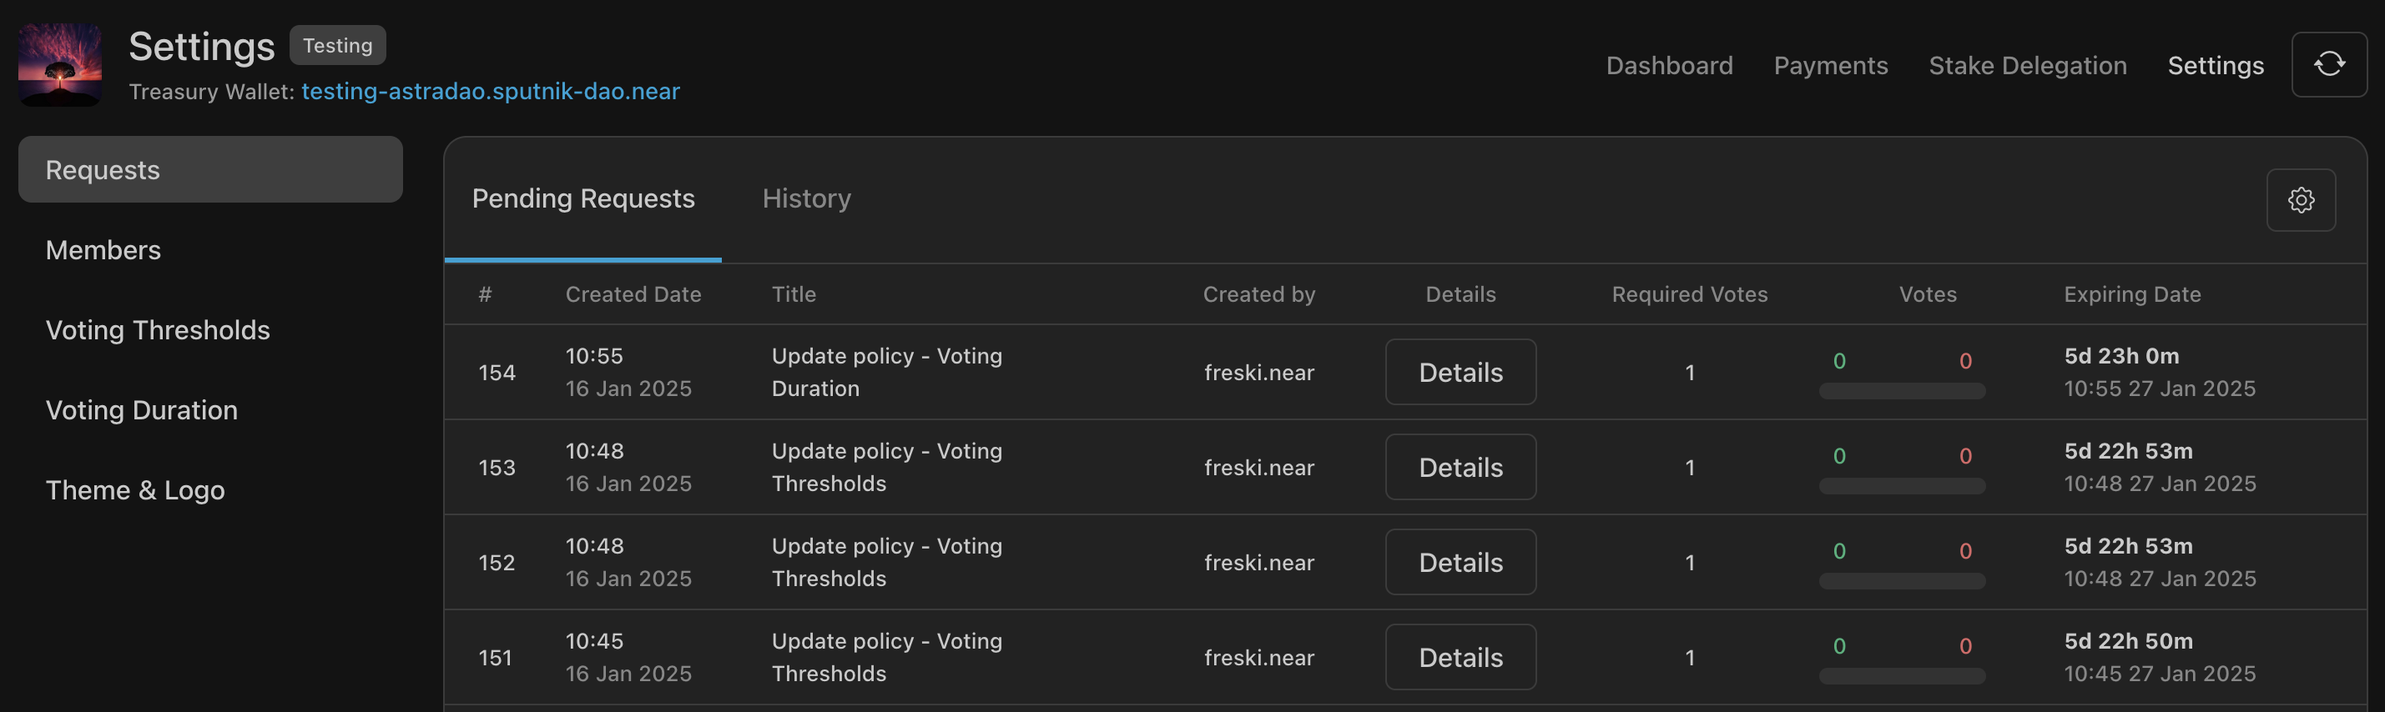
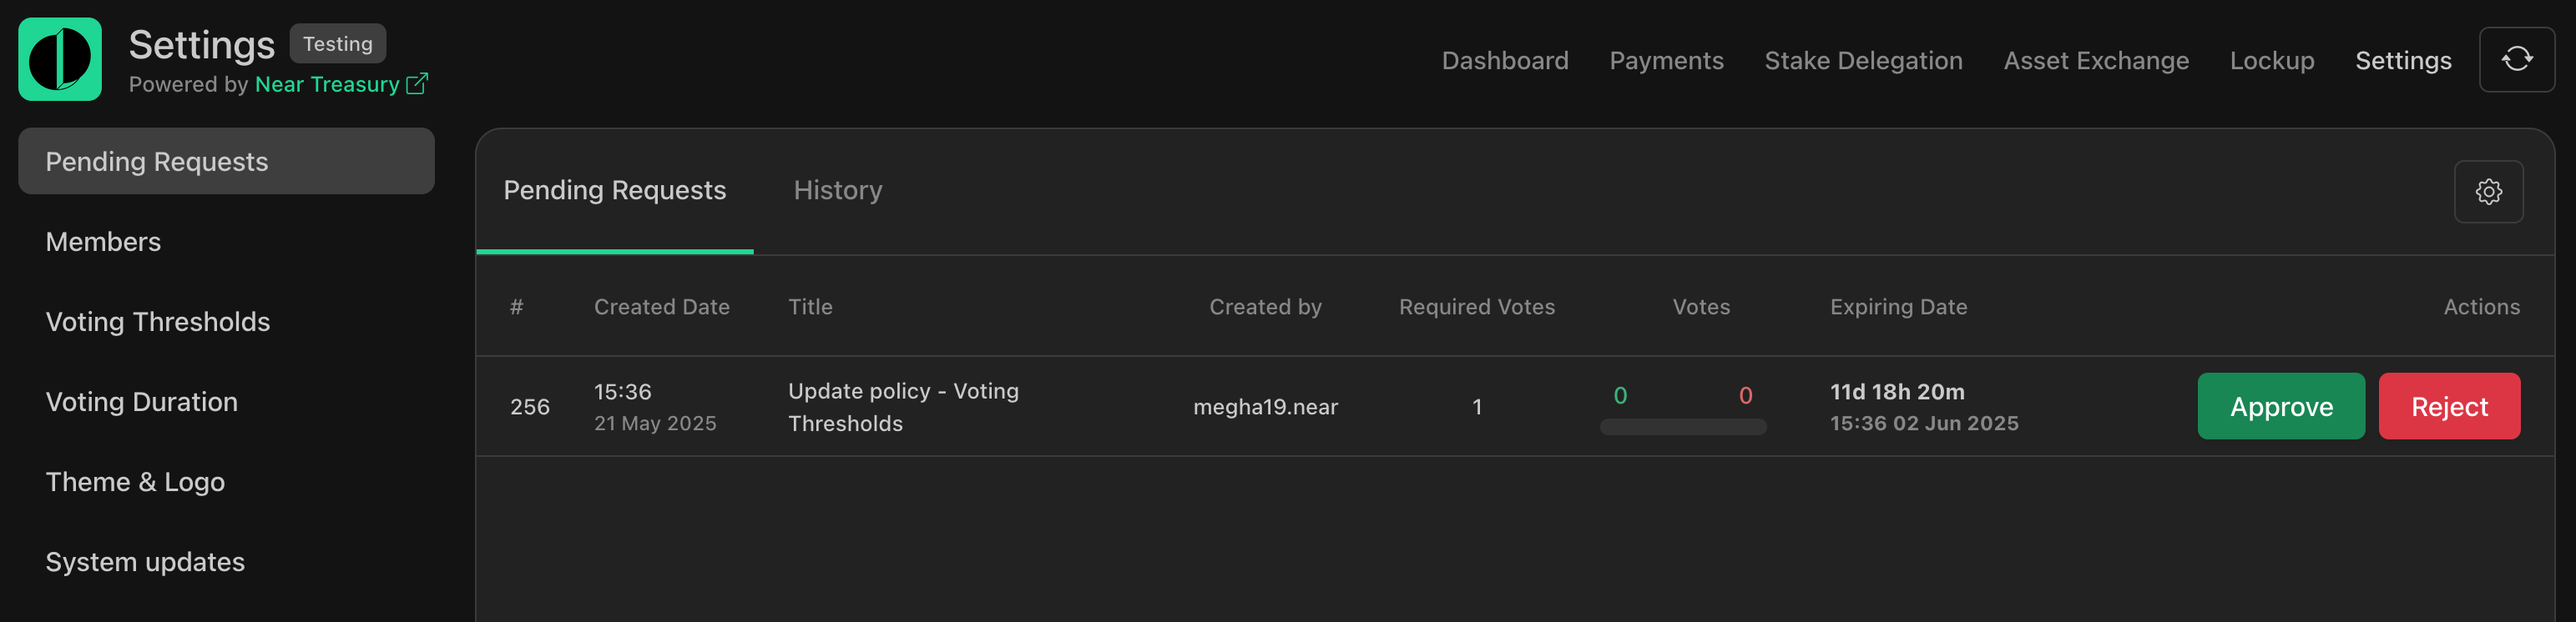
Create system upgrade docs (#20)
* Create sys-upgrade.md

* logo

* update

* Update settings.md

* update

* Update sys-update.md

* Update docs/concepts/sys-update.md

* Update sys-update.md

* Update sys-update.md

* Update sys-update.md

---------

diff --git a/docs/concepts/sys-update.md b/docs/concepts/sys-update.md
@@ -1,0 +1,65 @@
+---
+sidebar_position: 9
+sidebar_label: "System Updates"
+title: About System Updates
+description: Update Treasury functionality including contract, policy, and app widget.
+---
+
+## About updates
+
+The [system update](../settings.md#system-updates) allows Treasury developers to share important updates with treasury instances. These updates can relate to contract or frontend UI (e.g., Sputnik contract upgrades, DAO policy updates, or new UI features).
+These available updates can be reviewed, approved, and applied manually by treasury administrators.
+
+## Update Types
+
+The following system updates are supported:
+
+- **Web4 Contract**: Used to upgrade the underlying Web4 smart contract for the treasury instance to the latest version. Applying this update triggers a self-upgrade of the contract.
+
+- **Widgets**: Updates the main application widget to the latest version from the reference account. Ensures the UI and logic are up-to-date with the latest features and bug fixes.
+
+- **Policy**: Updates that change the DAO policy, such as voting rules, roles, or permissions. Applying this update creates a proposal to change the policy on the DAO contract.
+
+- **DAO contract**: Upgrades the DAO contract itself (e.g., to a new version of Sputnik DAO). May involve deploying new contract code or migrating state.
+
+
+## How System Updates Work
+
+When a system update is published, treasury administrators may see a notification banner or badge indicating that a new update is available for their treasury instance. This is designed to help administrators and users stay informed about important changes, such as contract upgrades or policy updates.
+
+### Banner Notifications
+
+When an update is available (and it has not been previously applied), a banner or notification will appear:
+
+<div class="screenshot">
+
+![System updates](/img/settings/update-banner.png)
+
+</div>
+
+If you visit the updates page and the system detects that your instance is already up to date (for example, the contract or widget has already been upgraded), the update will disappear from the list and the banner will be moved to the `History` tab.
+
+:::info Why Updates May Disappear?
+
+  - If you see an update notification but when you visit the [Settings page](../settings.md) the update disappears, this means the system has checked your instance and determined that the update is no longer needed (e.g.,  the upgrade may have already been applied—possibly by another admin or from a different browser—or the update request might have already been created and is still pending a vote).
+  - This can be confusing, but it is expected behavior due to the decentralized and stateless nature of the [update tracking system](#how-update-status-is-tracked).
+
+:::
+
+### How Update Status is Tracked
+
+There is no central server or database that tracks which updates have been applied for each instance or user. The system relies on local checks and the current state of your instance (e.g., contract version, widget version, policy) to determine if an update is still relevant.
+
+The status of which updates have been applied or acknowledged is tracked in your browser's local storage. This means the update banner or notification is specific to your browser and device.
+
+:::info Local storage
+
+If you clear your browser storage or use a different browser/device, you may see update notifications again, even if you have already applied or dismissed them elsewhere.
+
+:::
+
+### Tips for Users
+
+- If you want to keep a record of which updates have been applied, consider keeping your browser storage intact or using the same device for administrative actions.
+- If you are collaborating with other admins, be aware that update status is not synchronized between users—each admin's browser tracks updates independently, but the system will always check the actual state of the instance before showing or hiding updates.
+

diff --git a/docs/settings.md b/docs/settings.md
@@ -1,11 +1,11 @@
 ---
 sidebar_position: 7
 sidebar_label: "Settings"
-title: Settings Overview
+title: Settings
 description: Configure your NEAR Treasury dashboard.
 ---
 
-# Settings
+## Overview
 
 The Settings section allows Admins (see [Roles & Permissions](https://docs.neartreasury.com/permissions)) to configure various aspects of your NEAR Treasury dashboard.
 
@@ -81,6 +81,39 @@ The Voting Duration section allows Admins to set the timeframe during which team
 <img src="/img/settings/duration.png" width="70%" alt="voting duration" />
 </div>
 
-## Theme & logo
+## Theme & Logo
 
 The `Theme & Logo` section lets Admins personalize the look of your dashboard. You can upload a custom logo, choose a primary color, and set the theme to dark or light mode.
+
+<div class="screenshot">
+<img src="/img/settings/theme.png" width="70%" alt="theme logo" />
+</div>
+
+## System updates
+
+The `System update` section allows Admins to review, approve, and apply pending updates to their treasury instance.
+Updates such as contract upgrades, policy changes, or instance app widget changes are pushed by NEAR Treasury developers to provide new features, fix bugs, and improve the user experience.
+
+:::tip
+Visit [this page](concepts/sys-update.md) to learn more about the different [Update Types](concepts/sys-update.md#update-types) and how the system update works.
+:::
+
+### Reviewing System Updates
+
+All updates must be manually approved or rejected by treasury administrators.
+To review and vote on pending updates:
+
+1. Go to the `System updates` section.
+2. View the list of pending updates.
+3. Review the details of each update.
+4. Approve or reject the pending update request.
+
+<div class="screenshot">
+
+![System updates](/img/settings/updates.png)
+
+</div>
+
+:::info Policy updates
+After an Administrator accepts a system [policy update](concepts/sys-update.md#update-types), you will see a new request under [`Pending requests`](#pending-requests), and Treasury users will need to vote on it.
+:::
